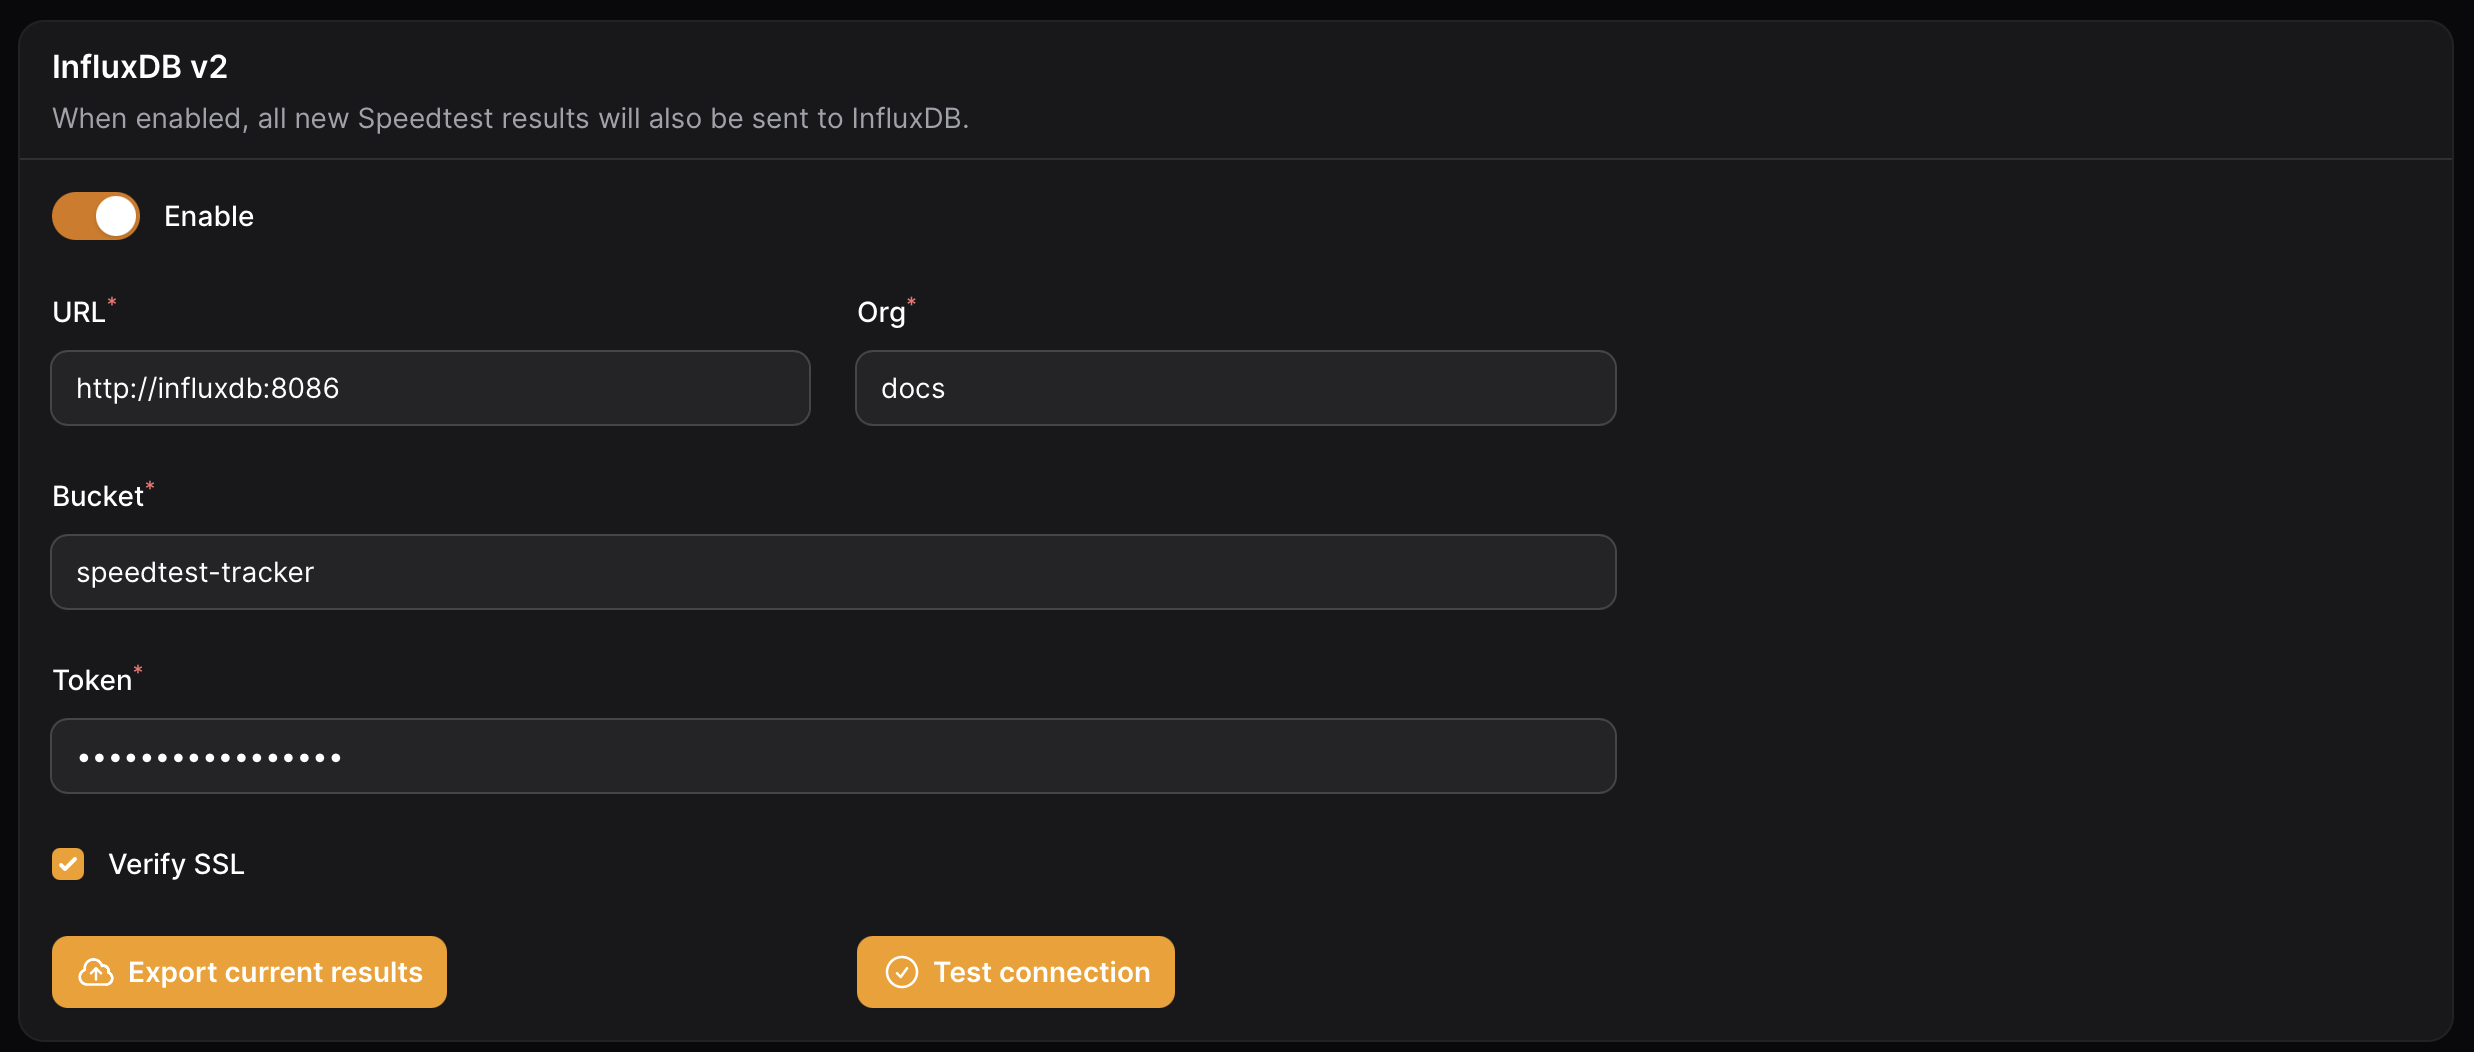
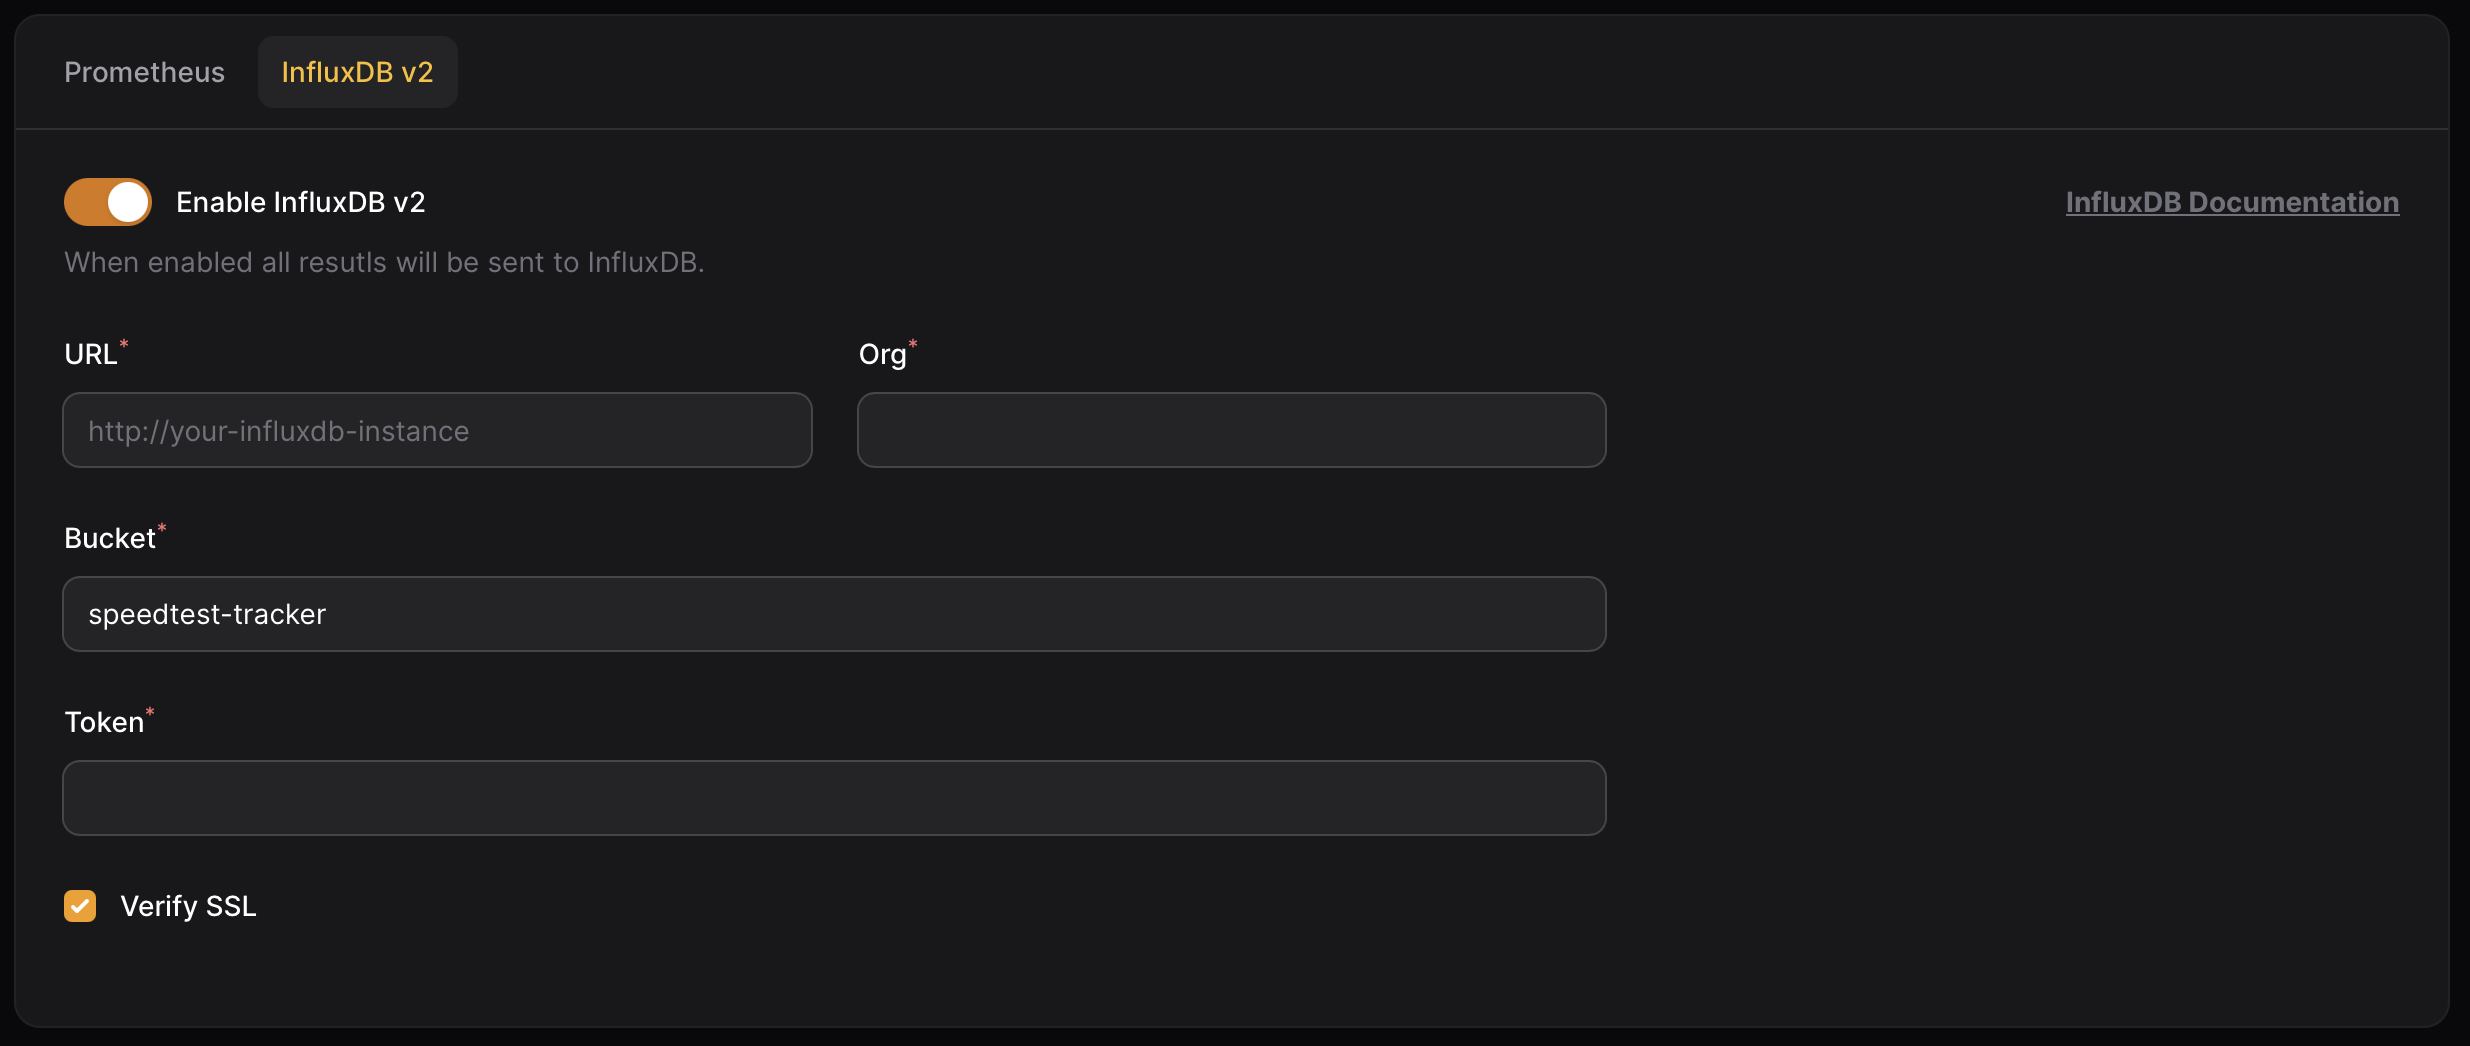
GITBOOK-1: No subject

diff --git a/features.md b/features.md
@@ -4,4 +4,4 @@ description: A full list of implemented features and those that are planned.
 
 # Features
 
-<table><thead><tr><th width="563">Features</th><th align="right">Status</th></tr></thead><tbody><tr><td><strong>Install options</strong></td><td align="right"></td></tr><tr><td>Docker images for x86</td><td align="right">Done</td></tr><tr><td>Docker images for arm64</td><td align="right">Done</td></tr><tr><td>unRAID Community App</td><td align="right">Done</td></tr><tr><td></td><td align="right"></td></tr><tr><td><strong>Dashboard</strong></td><td align="right"></td></tr><tr><td>Show the most recent results</td><td align="right">Done</td></tr><tr><td>Pretty graphs</td><td align="right"><a href="https://github.com/alexjustesen/speedtest-tracker/pull/213">Done</a></td></tr><tr><td></td><td align="right"></td></tr><tr><td><strong>Results</strong></td><td align="right"></td></tr><tr><td>History of failed and successful results</td><td align="right">Done</td></tr><tr><td>Filter by <code>scheduled</code> and <code>successful</code></td><td align="right"><a href="https://github.com/alexjustesen/speedtest-tracker/pull/318">Done</a></td></tr><tr><td>Export selected results to CSV</td><td align="right">Done</td></tr><tr><td></td><td align="right"></td></tr><tr><td><strong>Speedtest options</strong></td><td align="right"></td></tr><tr><td>Scheduled tests</td><td align="right">Done</td></tr><tr><td>Adhoc test</td><td align="right">Done</td></tr><tr><td>Manually specify a server</td><td align="right"><a href="https://github.com/alexjustesen/speedtest-tracker/pull/216">Done</a></td></tr><tr><td>Manually specify a list of servers</td><td align="right"><a href="https://github.com/alexjustesen/speedtest-tracker/pull/216">Done</a></td></tr><tr><td>Threshold alerts</td><td align="right">Done</td></tr><tr><td></td><td align="right"></td></tr><tr><td><strong>Ping options</strong></td><td align="right"></td></tr><tr><td>Ping a domain or list of domains</td><td align="right">Planned</td></tr><tr><td></td><td align="right"></td></tr><tr><td><strong>Database support</strong></td><td align="right"></td></tr><tr><td>SQLite (default)</td><td align="right">Done</td></tr><tr><td>MariaDB / MySQL</td><td align="right">Done</td></tr><tr><td>Postgresql</td><td align="right">Done</td></tr><tr><td>InfluxDB v2</td><td align="right">Done</td></tr><tr><td>Prometheus</td><td align="right">Planned</td></tr><tr><td></td><td align="right"></td></tr><tr><td><strong>Notification Channels</strong></td><td align="right"></td></tr><tr><td>In-app</td><td align="right"><a href="https://github.com/alexjustesen/speedtest-tracker/releases/tag/v0.1.0">Done</a></td></tr><tr><td>Mail</td><td align="right"><a href="https://github.com/alexjustesen/speedtest-tracker/releases/tag/v0.4.0">Done</a></td></tr><tr><td>Discord</td><td align="right"><a href="https://github.com/alexjustesen/speedtest-tracker/pull/1196">Done</a></td></tr><tr><td>Gotify</td><td align="right"><a href="https://github.com/alexjustesen/speedtest-tracker/pull/1561">Done</a></td></tr><tr><td>Slack</td><td align="right"><a href="https://github.com/alexjustesen/speedtest-tracker/pull/1522">Done</a></td></tr><tr><td>Telegram</td><td align="right"><a href="https://github.com/alexjustesen/speedtest-tracker/pull/265">Done</a></td></tr><tr><td>Webhooks</td><td align="right"><a href="https://github.com/alexjustesen/speedtest-tracker/releases/tag/v0.15.0">Done</a></td></tr><tr><td>Ntfy</td><td align="right"><a href="https://github.com/alexjustesen/speedtest-tracker/pull/1579">Done</a></td></tr><tr><td>Pushover</td><td align="right"><a href="https://github.com/alexjustesen/speedtest-tracker/pull/1574">Done</a></td></tr><tr><td>HealthCheck.io</td><td align="right"><a href="https://github.com/alexjustesen/speedtest-tracker/pull/1567">Done</a></td></tr><tr><td></td><td align="right"></td></tr><tr><td><strong>Application Monitoring</strong></td><td align="right"></td></tr><tr><td><a href="https://ohdear.app/">https://ohdear.app/</a></td><td align="right">Planned</td></tr><tr><td><a href="https://thenping.me/">https://thenping.me/</a></td><td align="right">Planned</td></tr><tr><td><a href="https://healthchecks.io/">https://healthchecks.io/</a></td><td align="right">Planned</td></tr></tbody></table>
+<table><thead><tr><th width="563">Features</th><th align="right">Status</th></tr></thead><tbody><tr><td><strong>Install options</strong></td><td align="right"></td></tr><tr><td>Docker images for x86</td><td align="right">Done</td></tr><tr><td>Docker images for arm64</td><td align="right">Done</td></tr><tr><td>unRAID Community App</td><td align="right">Done</td></tr><tr><td></td><td align="right"></td></tr><tr><td><strong>Dashboard</strong></td><td align="right"></td></tr><tr><td>Show the most recent results</td><td align="right">Done</td></tr><tr><td>Pretty graphs</td><td align="right"><a href="https://github.com/alexjustesen/speedtest-tracker/pull/213">Done</a></td></tr><tr><td></td><td align="right"></td></tr><tr><td><strong>Results</strong></td><td align="right"></td></tr><tr><td>History of failed and successful results</td><td align="right">Done</td></tr><tr><td>Filter by <code>scheduled</code> and <code>successful</code></td><td align="right"><a href="https://github.com/alexjustesen/speedtest-tracker/pull/318">Done</a></td></tr><tr><td>Export selected results to CSV</td><td align="right">Done</td></tr><tr><td></td><td align="right"></td></tr><tr><td><strong>Speedtest options</strong></td><td align="right"></td></tr><tr><td>Scheduled tests</td><td align="right">Done</td></tr><tr><td>Adhoc test</td><td align="right">Done</td></tr><tr><td>Manually specify a server</td><td align="right"><a href="https://github.com/alexjustesen/speedtest-tracker/pull/216">Done</a></td></tr><tr><td>Manually specify a list of servers</td><td align="right"><a href="https://github.com/alexjustesen/speedtest-tracker/pull/216">Done</a></td></tr><tr><td>Threshold alerts</td><td align="right">Done</td></tr><tr><td></td><td align="right"></td></tr><tr><td><strong>Ping options</strong></td><td align="right"></td></tr><tr><td>Ping a domain or list of domains</td><td align="right">Planned</td></tr><tr><td></td><td align="right"></td></tr><tr><td><strong>Database support</strong></td><td align="right"></td></tr><tr><td>SQLite (default)</td><td align="right">Done</td></tr><tr><td>MariaDB / MySQL</td><td align="right">Done</td></tr><tr><td>Postgresql</td><td align="right">Done</td></tr><tr><td>InfluxDB v2</td><td align="right">Done</td></tr><tr><td>Prometheus</td><td align="right">Done</td></tr><tr><td></td><td align="right"></td></tr><tr><td><strong>Notification Channels</strong></td><td align="right"></td></tr><tr><td>In-app</td><td align="right"><a href="https://github.com/alexjustesen/speedtest-tracker/releases/tag/v0.1.0">Done</a></td></tr><tr><td>Mail</td><td align="right"><a href="https://github.com/alexjustesen/speedtest-tracker/releases/tag/v0.4.0">Done</a></td></tr><tr><td>Discord</td><td align="right"><a href="https://github.com/alexjustesen/speedtest-tracker/pull/1196">Done</a></td></tr><tr><td>Gotify</td><td align="right"><a href="https://github.com/alexjustesen/speedtest-tracker/pull/1561">Done</a></td></tr><tr><td>Slack</td><td align="right"><a href="https://github.com/alexjustesen/speedtest-tracker/pull/1522">Done</a></td></tr><tr><td>Telegram</td><td align="right"><a href="https://github.com/alexjustesen/speedtest-tracker/pull/265">Done</a></td></tr><tr><td>Webhooks</td><td align="right"><a href="https://github.com/alexjustesen/speedtest-tracker/releases/tag/v0.15.0">Done</a></td></tr><tr><td>Ntfy</td><td align="right"><a href="https://github.com/alexjustesen/speedtest-tracker/pull/1579">Done</a></td></tr><tr><td>Pushover</td><td align="right"><a href="https://github.com/alexjustesen/speedtest-tracker/pull/1574">Done</a></td></tr><tr><td>HealthCheck.io</td><td align="right"><a href="https://github.com/alexjustesen/speedtest-tracker/pull/1567">Done</a></td></tr><tr><td></td><td align="right"></td></tr><tr><td><strong>Application Monitoring</strong></td><td align="right"></td></tr><tr><td><a href="https://ohdear.app/">https://ohdear.app/</a></td><td align="right">Planned</td></tr><tr><td><a href="https://thenping.me/">https://thenping.me/</a></td><td align="right">Planned</td></tr><tr><td><a href="https://healthchecks.io/">https://healthchecks.io/</a></td><td align="right">Planned</td></tr></tbody></table>

diff --git a/settings/data-platforms/influxdb2.md b/settings/data-platforms/influxdb2.md
@@ -1,6 +1,6 @@
 # InfluxDB v2
 
-After every test the Speedtest Tracker can send the results to InfluxDB for long term storage or custom visualizations.&#x20;
+After every test the Speedtest Tracker can send the results to InfluxDB for long term storage or custom visualizations.
 
 ### Settings
 
@@ -10,11 +10,11 @@ To configure Speedtest Tracker to send results to InfluxDB, set the following se
 
 <figure><img src="../../.gitbook/assets/influxdbv2_settings.png" alt=""><figcaption><p>Influxdb v2 Settings</p></figcaption></figure>
 
-If you have a history of results, you can use the `Export current results` feature to export all data to InfluxDB.&#x20;
+If you have a history of results, you can use the `Export current results` feature to export all data to InfluxDB.
 
 ### Grafana Dashboard
 
-You can use this community made Grafana Dashbaord to visualize your data.
+You can use this community made Grafana Dashboard to visualize your data.
 
 {% embed url="https://github.com/masterwishx/Speedtest-Tracker-v2-InfluxDBv2" %}
 
@@ -23,4 +23,3 @@ You can use this community made Grafana Dashbaord to visualize your data.
 The Speedtest Tracker exports data in two categories: `Tag` and `Field`. Tags are used for filtering, while fields are used for displaying the data.
 
 <table><thead><tr><th>Name</th><th>Data Type</th><th width="100"></th></tr></thead><tbody><tr><td><code>result_id</code></td><td><code>String</code></td><td><code>Tag</code></td></tr><tr><td><code>external_ip</code></td><td><code>String</code></td><td><code>Tag</code></td></tr><tr><td><code>isp</code></td><td><code>String</code></td><td><code>Tag</code></td></tr><tr><td><code>service</code></td><td><code>String</code></td><td><code>Tag</code></td></tr><tr><td><code>server_id</code></td><td><code>String</code></td><td><code>Tag</code></td></tr><tr><td><code>server_name</code></td><td><code>String</code></td><td><code>Tag</code></td></tr><tr><td><code>server_country</code></td><td><code>String</code></td><td><code>Tag</code></td></tr><tr><td><code>server_location</code></td><td><code>String</code></td><td><code>Tag</code></td></tr><tr><td><code>healthy</code></td><td><code>String</code></td><td><code>Tag</code></td></tr><tr><td><code>status</code></td><td><code>String</code></td><td><code>Tag</code></td></tr><tr><td><code>scheduled</code></td><td><code>String</code></td><td><code>Tag</code></td></tr><tr><td><code>download</code></td><td><code>init</code></td><td><code>Field</code></td></tr><tr><td><code>upload</code></td><td><code>init</code></td><td><code>Field</code></td></tr><tr><td><code>ping</code></td><td><code>float</code></td><td><code>Field</code></td></tr><tr><td><code>download_bits</code></td><td><code>int</code></td><td><code>Field</code></td></tr><tr><td><code>upload_bits</code></td><td><code>int</code></td><td><code>Field</code></td></tr><tr><td><code>download_jitter</code></td><td><code>float</code></td><td><code>Field</code></td></tr><tr><td><code>upload_jitter</code></td><td><code>float</code></td><td><code>Field</code></td></tr><tr><td><code>ping_jitter</code></td><td><code>float</code></td><td><code>Field</code></td></tr><tr><td><code>download_latency_avg</code></td><td><code>float</code></td><td><code>Field</code></td></tr><tr><td><code>download_latency_high</code></td><td><code>float</code></td><td><code>Field</code></td></tr><tr><td><code>download_latency_low</code></td><td><code>float</code></td><td><code>Field</code></td></tr><tr><td><code>upload_latency_avg</code></td><td><code>float</code></td><td><code>Field</code></td></tr><tr><td><code>upload_latency_high</code></td><td><code>float</code></td><td><code>Field</code></td></tr><tr><td><code>upload_latency_low</code></td><td><code>float</code></td><td><code>Field</code></td></tr><tr><td><code>packet_loss</code></td><td><code>float</code></td><td><code>Field</code></td></tr></tbody></table>
-

diff --git a/settings/data-platforms/prometheus.md b/settings/data-platforms/prometheus.md
@@ -1,0 +1,30 @@
+# Prometheus
+
+After every test the Speedtest Tracker can expose the results for Prometheus to scrape for long term storage or custom visualizations.
+
+### Settings
+
+To have the test metrcis exposed all you need to do is enbable Prometheus in the settings.
+
+<figure><img src="../../.gitbook/assets/prometheus_settings.png" alt=""><figcaption><p>Prometheus Settings</p></figcaption></figure>
+
+### Prometheus Configuration&#x20;
+
+In order for Prometheus to scrape the metric you will need to add the following configuration to your `prometheus.yml`.
+
+```
+- job_name: 'speedtest-tracker'
+  scrape_interval: 1h
+  static_configs:
+    - targets: ['speedtest-tracker.dev']
+```
+
+{% hint style="info" %}
+Adjust the `scrape_interval` & `Targets` accordingly.
+{% endhint %}
+
+### Data Pattern
+
+The Speedtest Tracker exports data in two categories: `labels` and `metrics`. Labels are used for filtering, while metrics are used for displaying the data.
+
+<table><thead><tr><th width="333">Name</th><th></th></tr></thead><tbody><tr><td><code>isp</code></td><td><code>Label</code></td></tr><tr><td><code>service</code></td><td><code>Label</code></td></tr><tr><td><code>server_id</code></td><td><code>Label</code></td></tr><tr><td><code>server_name</code></td><td><code>Label</code></td></tr><tr><td><code>server_country</code></td><td><code>Label</code></td></tr><tr><td><code>server_location</code></td><td><code>Label</code></td></tr><tr><td><code>externalIp</code></td><td><code>Label</code></td></tr><tr><td><code>healthy</code></td><td><code>Label</code></td></tr><tr><td><code>status</code></td><td><code>Label</code></td></tr><tr><td><code>scheduled</code></td><td><code>Label</code></td></tr><tr><td><code>result_id</code></td><td><code>Metric</code></td></tr><tr><td><code>download</code></td><td><code>Metric</code></td></tr><tr><td><code>upload</code></td><td><code>Metric</code></td></tr><tr><td><code>ping</code></td><td><code>Metric</code></td></tr><tr><td><code>download_bits</code></td><td><code>Metric</code></td></tr><tr><td><code>upload_bits</code></td><td><code>Metric</code></td></tr><tr><td><code>download_jitter</code></td><td><code>Metric</code></td></tr><tr><td><code>upload_jitter</code></td><td><code>Metric</code></td></tr><tr><td><code>ping_jitter</code></td><td><code>Metric</code></td></tr><tr><td><code>download_latency_avg</code></td><td><code>Metric</code></td></tr><tr><td><code>download_latency_high</code></td><td><code>Metric</code></td></tr><tr><td><code>download_latency_low</code></td><td><code>Metric</code></td></tr><tr><td><code>upload_latency_avg</code></td><td><code>Metric</code></td></tr><tr><td><code>upload_latency_high</code></td><td><code>Metric</code></td></tr><tr><td><code>upload_latency_low</code></td><td><code>Metric</code></td></tr><tr><td><code>packet_loss</code></td><td><code>Metric</code></td></tr></tbody></table>

diff --git a/settings/data-platforms/README.md b/settings/data-platforms/README.md
@@ -1,3 +1,3 @@
-# Data Platforms
+# Data Integrations
 
-Speedtest Tracker supports reporting data to InfluxDB2, a time series database. Additional data platforms are planned and listed on the [Features](../../features.md) page.
+Speedtest Tracker supports reporting data to InfluxDB2 & Prometheus,  time series databases.&#x20;

diff --git a/SUMMARY.md b/SUMMARY.md
@@ -28,6 +28,7 @@
 ## ⚙ Settings
 
 * [Data Integrations](settings/data-platforms/README.md)
+  * [Prometheus](settings/data-platforms/prometheus.md)
   * [InfluxDB v2](settings/data-platforms/influxdb2.md)
 * [Notifications](settings/notifications/README.md)
   * [Database](settings/notifications/database.md)
